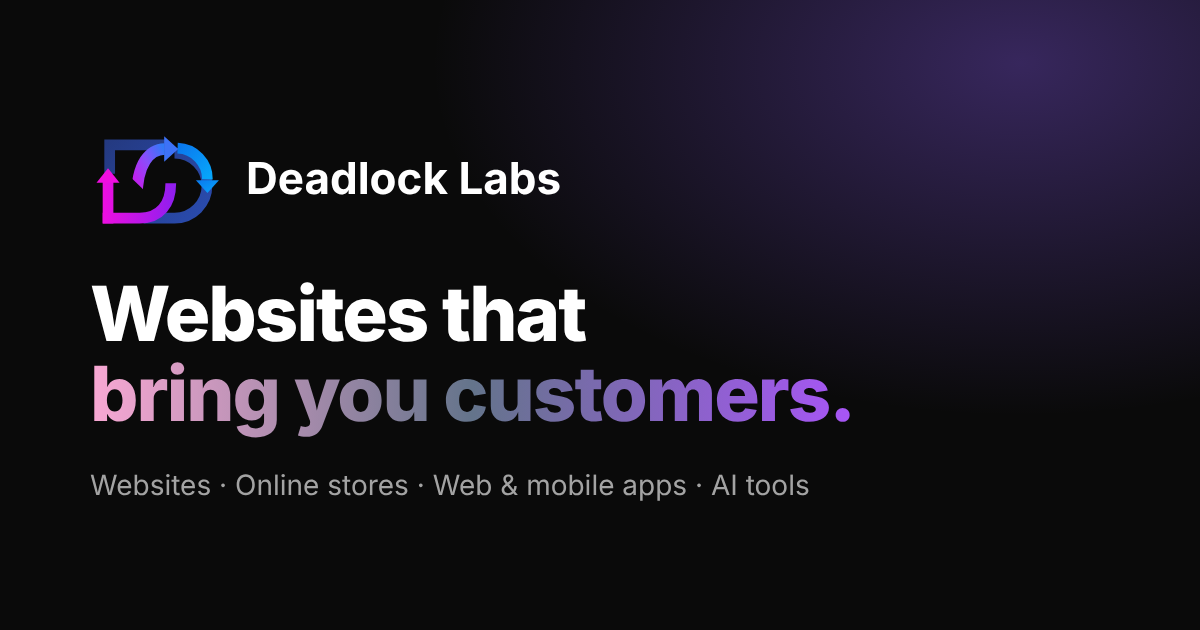
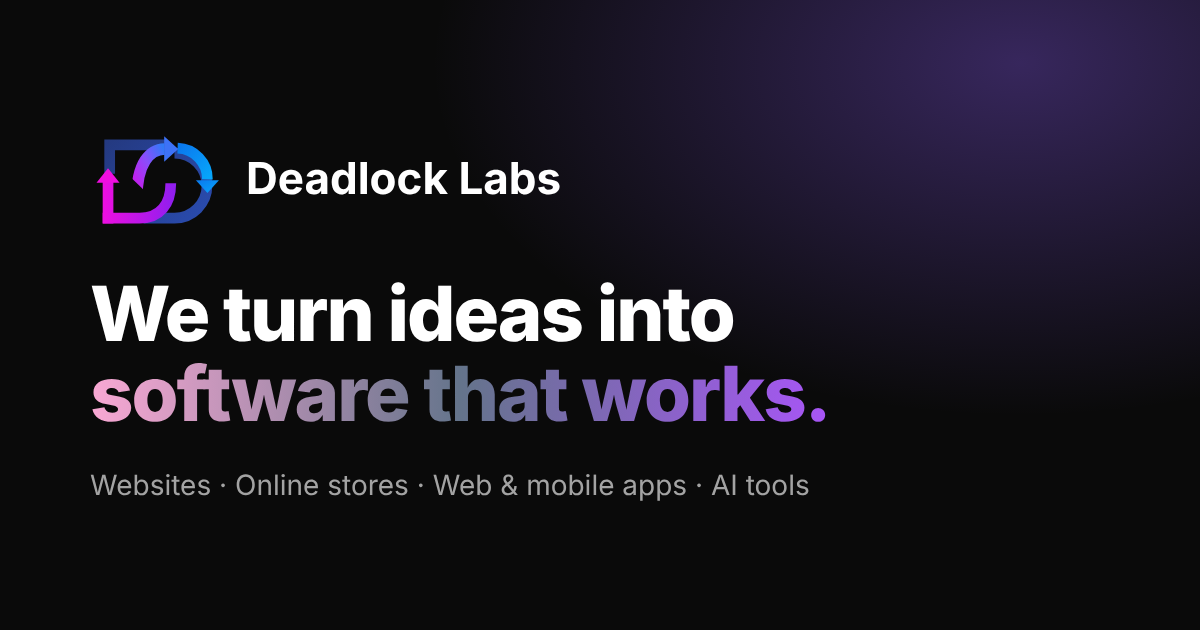
Change hero headline to "We turn ideas into software that works."
Also updates the page's og:title and the link-preview image to match.

Claude-Session: https://claude.ai/code/session_019AdVcXkkG9BMPiyiihMthx

Changed region(s): [[0.0617, 0.573, 0.7092, 0.6937], [0.1542, 0.4524, 0.6167, 0.5429]]

diff --git a/index.html b/index.html
@@ -9,7 +9,7 @@
     <meta name="keywords" content="Deadlock Labs, software studio, web development, mobile app development, Flutter, AI chatbot, Gemini, MERN, .NET, website design, online store, freelance developers" />
     <meta name="theme-color" content="#0a0a0a" />
     <meta property="og:type" content="website" />
-    <meta property="og:title" content="Deadlock Labs | Websites that bring you customers" />
+    <meta property="og:title" content="Deadlock Labs | We turn ideas into software that works" />
     <meta property="og:description" content="Websites, online stores, web apps, mobile apps and AI tools for growing businesses." />
     <meta name="twitter:card" content="summary_large_image" />
     <!-- Update these URLs if the site moves to a custom domain (also public/robots.txt, public/sitemap.xml, SITE.url in config.js) -->

diff --git a/src/config.js b/src/config.js
@@ -308,8 +308,8 @@ export const WORK = PROJECTS.map((p) => ({ demo: "", device: "desktop", ...p, ..
 // Hero: headline + the projects shown in the stacked previews (by slug, front card first).
 export const HERO = {
   eyebrow: "Taking on new projects",
-  title: "Websites that",
-  highlight: "bring you customers.",
+  title: "We turn ideas into",
+  highlight: "software that works.",
   short: "Fast, mobile-friendly websites, online stores, apps and AI tools for growing businesses.",
   text: "We design and build fast, mobile-friendly websites and online stores for restaurants, clinics, shops and startups, plus web apps, mobile apps and AI tools when you're ready to grow.",
   previews: ["luxurystay", "muhafiz", "talktotext", "multivox"],
